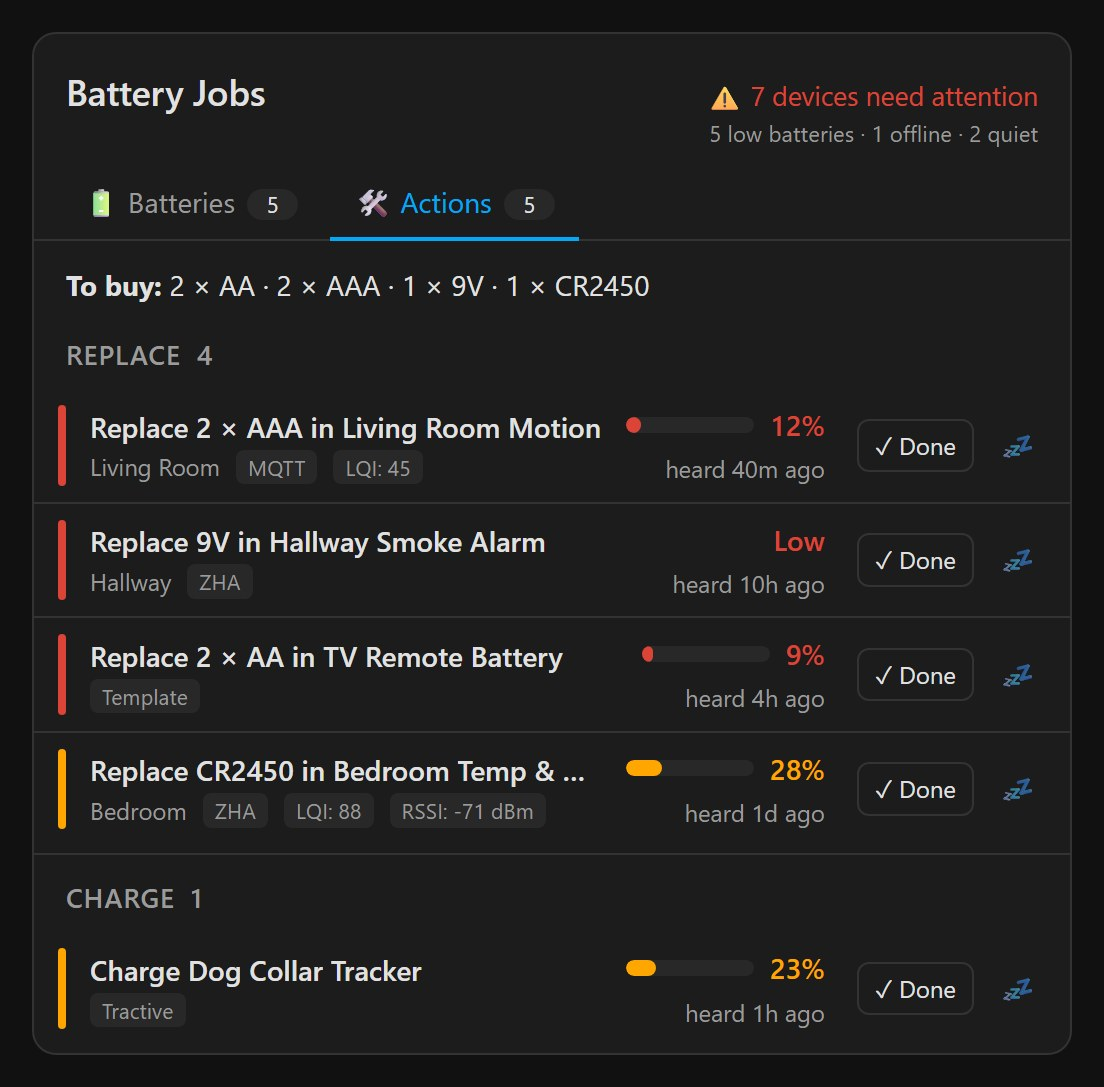
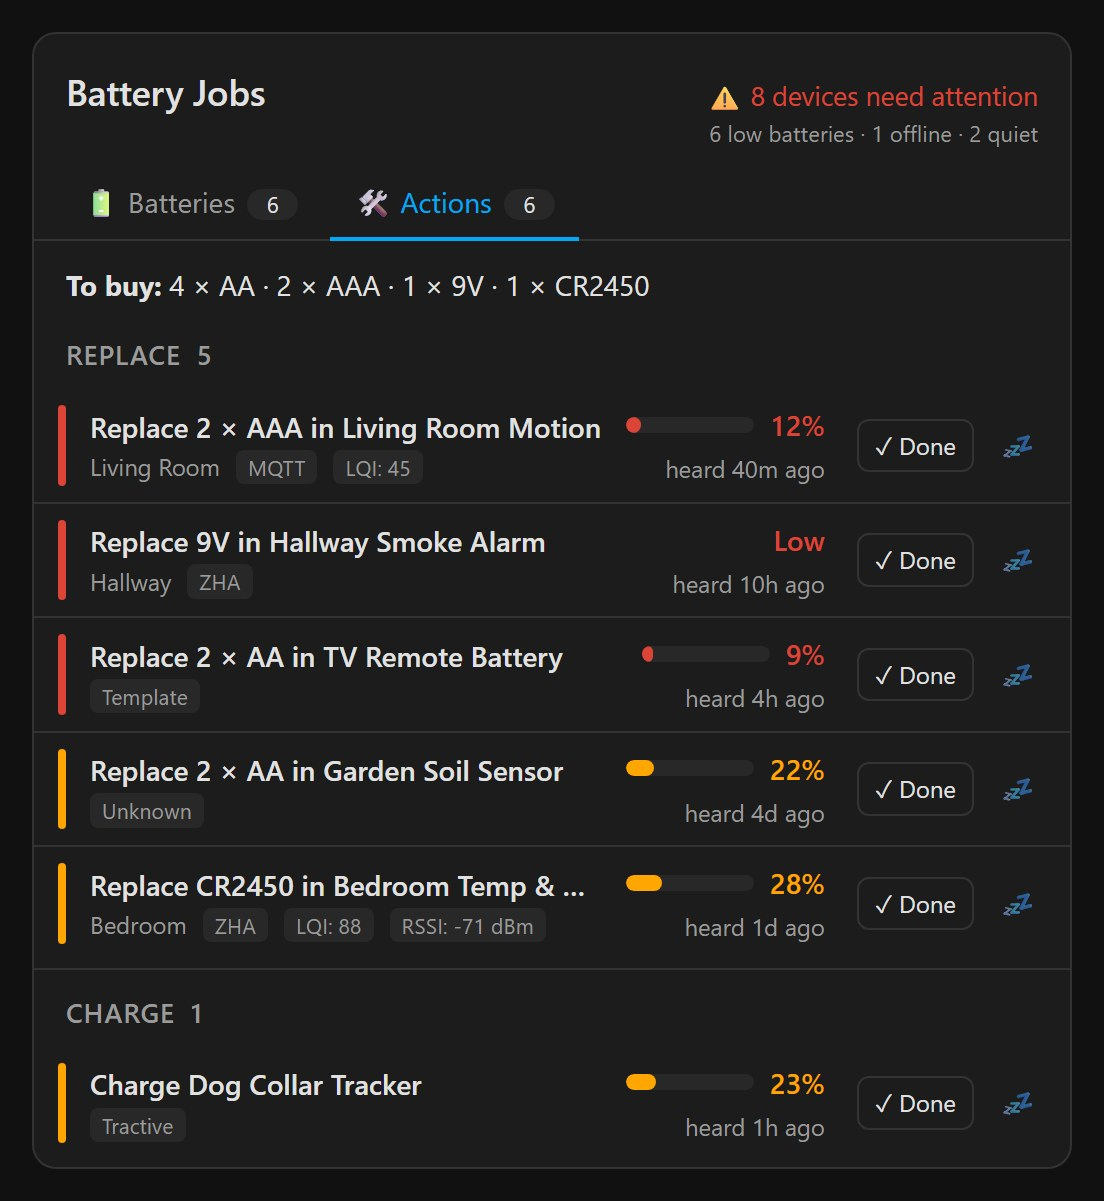
docs(card): dress the garden sensor in the demo and retake the screenshots

diff --git a/frontend/src/demo/main.ts b/frontend/src/demo/main.ts
@@ -79,6 +79,7 @@ const DEMO_SETTINGS: Record<string, Record<string, unknown>> = {
   dev_z2m_motion: { battery_type: 'AAA', battery_count: 2 },
   dev_smoke_alarm: { battery_type: '9V', battery_count: 1 },
   'entity:sensor.remote_battery_template': { battery_type: 'AA', battery_count: 2 },
+  'entity:sensor.garden_soil_moisture': { battery_type: 'AA', battery_count: 2 },
   dev_zha_temp: { battery_type: 'CR2450', battery_count: 1 },
   dev_legacy_tracker: {
     battery_type: 'Built-in rechargeable',
@@ -184,6 +185,7 @@ const DRAIN_PER_DAY: Record<string, number> = {
   'sensor.kitchen_ht_battery': 0.3,
   'sensor.garage_multisensor_battery_level': 0.8,
   'sensor.remote_battery_template': 0.5,
+  'sensor.garden_soil_moisture': 0.2,
 };
 
 /** Fake `pulse_check/history`: a straight drain over the window. */
